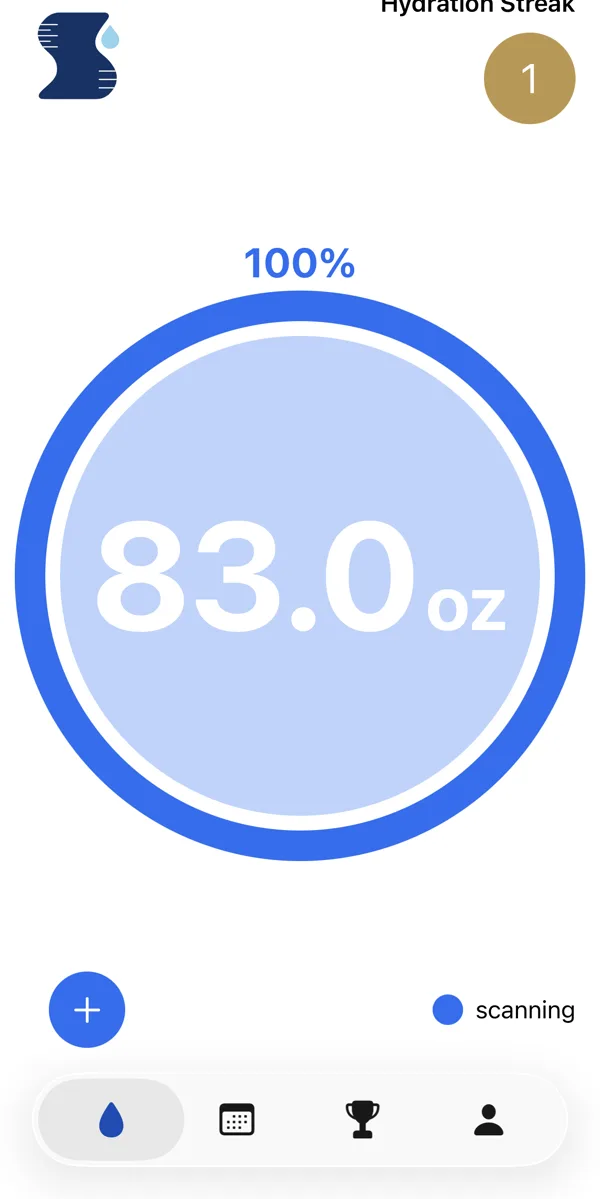
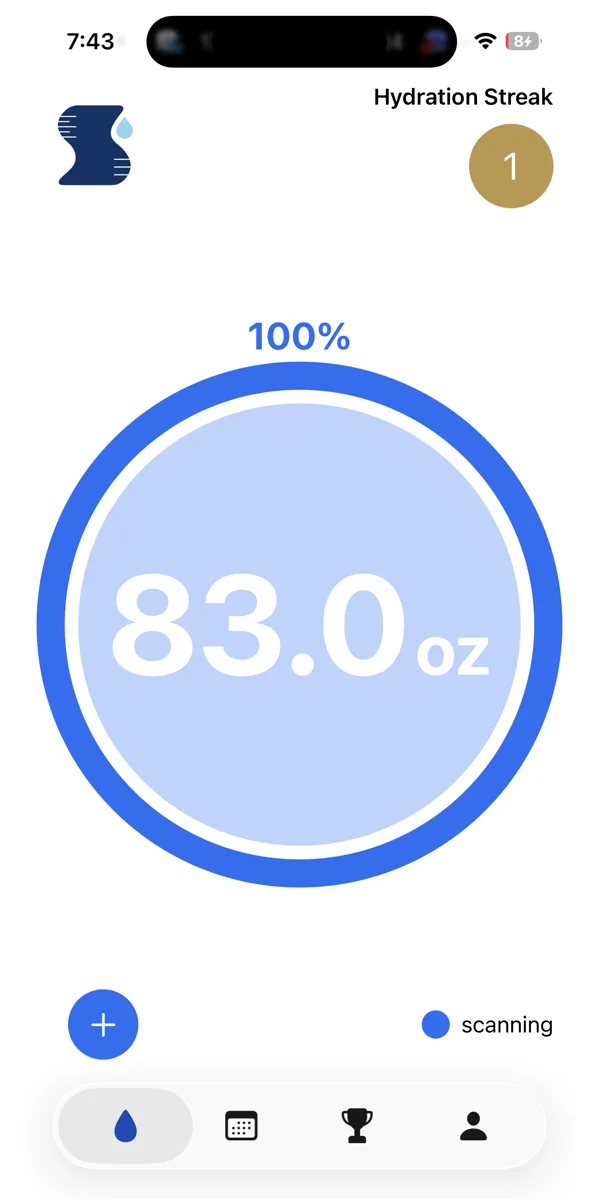
Lock click-through: show the step 4 screen whole so its header is not cut off

diff --git a/src/components/LockDemo.jsx b/src/components/LockDemo.jsx
@@ -3,7 +3,7 @@ import { useEffect, useRef, useState } from 'react'
 // Click-through walk of Hydration Locks (Nathan, 2026-11-23: "an interactive app
 // preview or slideshow that you can click through depicting how it works").
 // Every screen is a real, unretouched app screenshot, cropped only to remove the
-// status bar. All five images are in the prerendered page, so nothing depends on
+// status bar (step 4 is shown whole, or its header is cut off). All five images are in the prerendered page, so nothing depends on
 // script to be seen; script only decides which one is on top.
 export const LOCK_STEPS = [
   {
